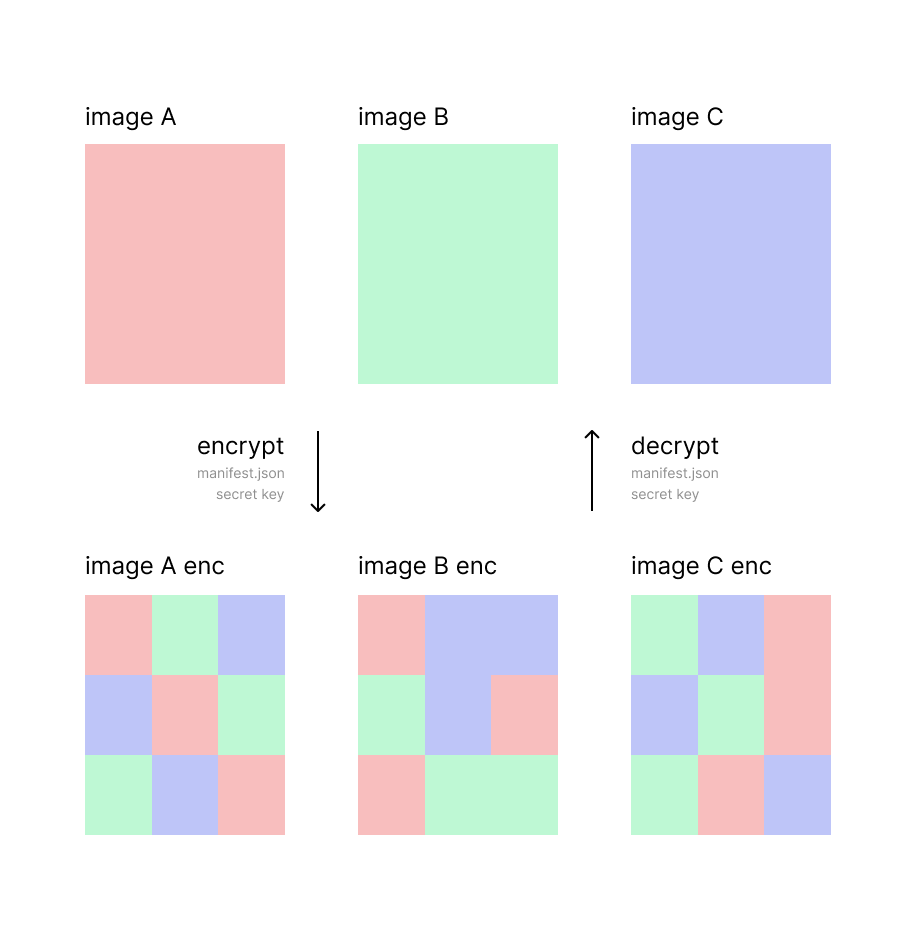
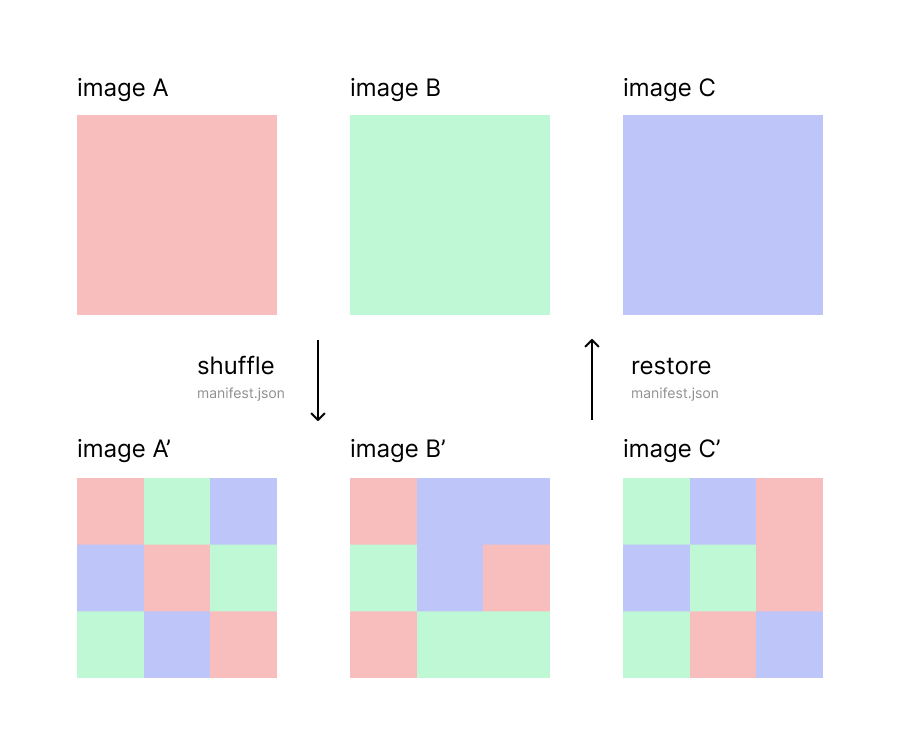
refactor: update README and CLI documentation for shuffle and restore commands
- Renamed CLI commands from `encrypt` to `shuffle` and `decrypt` to `restore` to reflect new functionality.
- Updated usage examples and command descriptions in the README files for both the main project and CLI package.
- Adjusted output structure and error handling sections to align with the new command names.

diff --git a/packages/cli/README.md b/packages/cli/README.md
@@ -10,7 +10,7 @@ npm install @image-shield/cli
 
 ## Usage
 
-The CLI provides two main commands: `encrypt` and `decrypt`.
+The CLI provides two main commands: `shuffle` and `restore`.
 
 ### Global Help
 
@@ -28,17 +28,17 @@ Options:
   -h, --help                        display help for command
 
 Commands:
-  encrypt [options] <images...>     Fragment images
-  decrypt [options] <fragments...>  Restore fragmented images
+  shuffle [options] <images...>     Fragment images
+  restore [options] <fragments...>  Restore fragmented images
   help [command]                    display help for command
 ```
 
-### Encrypt Command
+### Shuffle Command
 
 Fragment images into multiple pieces.
 
 ```bash
-image-shield encrypt <images...> -o <output_directory> [options]
+image-shield shuffle <images...> -o <output_directory> [options]
 ```
 
 #### Options
@@ -55,17 +55,17 @@ image-shield encrypt <images...> -o <output_directory> [options]
 
 **Basic fragmentation:**
 ```bash
-image-shield encrypt image1.jpg image2.png -o ./fragments
+image-shield shuffle image1.jpg image2.png -o ./fragments
 ```
 
 **Custom configuration:**
 ```bash
-image-shield encrypt *.jpg -o ./output -b 20 -p "my_fragment" --restore-filename
+image-shield shuffle *.jpg -o ./output -b 20 -p "my_fragment" --restore-filename
 ```
 
 **With seed for reproducible results:**
 ```bash
-image-shield encrypt image.png -o ./output -s 12345
+image-shield shuffle image.png -o ./output -s 12345
 ```
 
 #### Output Structure
@@ -79,12 +79,12 @@ output/
 └── ...
 ```
 
-### Decrypt Command
+### Restore Command
 
 Restore fragmented images using the manifest file.
 
 ```bash
-image-shield decrypt <fragments...> -m <manifest_path> -o <output_directory> [options]
+image-shield restore <fragments...> -m <manifest_path> -o <output_directory> [options]
 ```
 
 #### Options
@@ -98,12 +98,12 @@ image-shield decrypt <fragments...> -m <manifest_path> -o <output_directory> [op
 
 **Basic restoration:**
 ```bash
-image-shield decrypt ./fragments/*.png -m ./fragments/manifest.json -o ./restored
+image-shield restore ./fragments/*.png -m ./fragments/manifest.json -o ./restored
 ```
 
 **Specific fragments:**
 ```bash
-image-shield decrypt fragment_0000.png fragment_0001.png fragment_0002.png -m manifest.json -o ./output
+image-shield restore fragment_0000.png fragment_0001.png fragment_0002.png -m manifest.json -o ./output
 ```
 
 ## Error Handling
@@ -127,7 +127,7 @@ The CLI provides clear error messages for common issues:
 
 2. **Fragment images:**
    ```bash
-   image-shield encrypt images/photo1.jpg images/photo2.png -o ./backup --restore-filename
+   image-shield shuffle images/photo1.jpg images/photo2.png -o ./backup --restore-filename
    ```
    ```
    🔀 Starting image fragmentation...
@@ -142,7 +142,7 @@ The CLI provides clear error messages for common issues:
 
 4. **Restore images:**
    ```bash
-   image-shield decrypt backup/*.png -m backup/manifest.json -o ./restored
+   image-shield restore backup/*.png -m backup/manifest.json -o ./restored
    ```
    ```
    🔀 Starting image restoration...
@@ -161,7 +161,7 @@ For custom fragmentation:
 
 ```bash
 # Fragment with custom settings
-image-shield encrypt sensitive/*.jpg \
+image-shield shuffle sensitive/*.jpg \
   -o ./vault \
   -b 5 \
   -p "secure_chunk" \
@@ -184,7 +184,7 @@ BACKUP_DIR="./backup"
 
 # Create backup
 echo "Creating backup..."
-image-shield encrypt "$IMAGES_DIR"/*.{jpg,png} \
+image-shield shuffle "$IMAGES_DIR"/*.{jpg,png} \
   -o "$BACKUP_DIR" \
   --restore-filename
 
@@ -208,7 +208,7 @@ RESTORE_DIR="./recovered_photos"
 
 # Restore from backup
 echo "Restoring from backup..."
-image-shield decrypt "$BACKUP_DIR"/fragment_*.png \
+image-shield restore "$BACKUP_DIR"/fragment_*.png \
   -m "$BACKUP_DIR/manifest.json" \
   -o "$RESTORE_DIR"
 
@@ -244,7 +244,7 @@ npm test
 
 ```bash
 cd packages/cli
-npm run dev -- encrypt --help
+npm run dev -- shuffle --help
 ```
 
 ## Related Packages

diff --git a/README.md b/README.md
@@ -38,12 +38,10 @@ npm i image-shield
 import ImageShield from "image-shield";
 ```
 
-### 🔀 Shuffle Mode
-
-**Fragment**
+**Shuffle**
 
 ```ts
-await ImageShield.encrypt({
+await ImageShield.shuffle({
   // config: { /** FragmentationConfig */ },
   imagePaths: [
     "./input_1.png",
@@ -81,7 +79,7 @@ output
 **Restore**
 
 ```ts
-await ImageShield.decrypt({
+await ImageShield.restore({
   manifestPath: "./output/fragmented/manifest.json",
   imagePaths: [
     "./output/fragmented/img_1_fragmented.png",
@@ -191,5 +189,5 @@ manifest.json:
 
 ## Clients
 
-- [Raycast Extension](https://github.com/tuki0918/raycast-image-shield)
+- [Raycast Extension (legacy)](https://github.com/tuki0918/raycast-image-shield)
 
